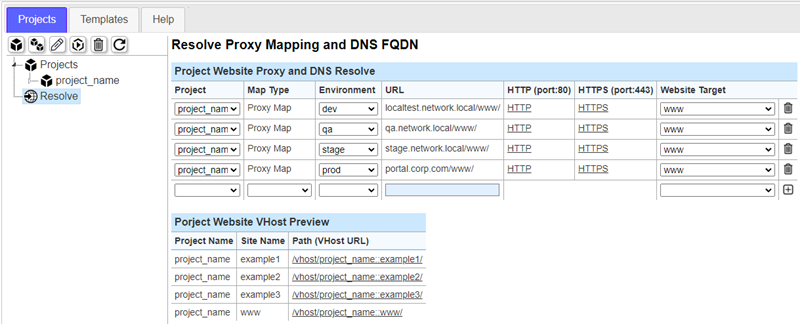
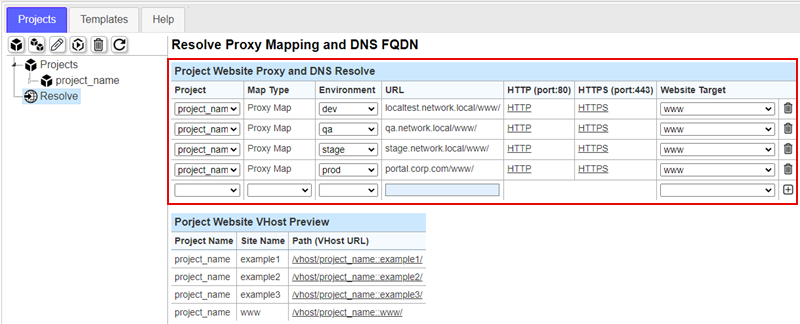
Update help docs

Changed region(s): [[0.2188, 0.6173, 1.0, 0.6481], [0.2188, 0.1543, 1.0, 0.1852]]

diff --git a/server/localhost/help/documents/6_Proxy_and_DNS_Resolution/6-02_Resolve_to_Environments.html b/server/localhost/help/documents/6_Proxy_and_DNS_Resolution/6-02_Resolve_to_Environments.html
@@ -1,0 +1,98 @@
+<h1>Resolve to Environments</h1>
+<p>
+    It's important to understand multiple environments and DNS resolution to server IP, Proxy/Load Balancers, or local Hosts file when you start working with mapping. Reference to '<b>Getting Started</b>' and '<b>Environments</b>', that is one hypothetical layout for different environments (below). It doesn't mean you will have your environments matching this layout. It could be much more simple or leverage Kubernetes instead of traditional VM servers with external load balancers, etc. For sake of simplicity, a lot of these examples will use traditional environments to help describe mapping the system software can support.
+</p>
+<br />
+<img src="/help/images/1_environments.png" />	
+<br /><br />
+<h3>Simple Environment</h3>
+<p>
+    <red>Before getting into this example, from a security perspective, it will most likely not look like this.</red> This is just a functional example. Your environment will most likely have a DMZ or multiple, API gateway, potentially a local code repo, VPNs or users may not work on code from home even (or use virtual desktop for remote access). Also, separate database services from web layer, etc.
+    <br /><br />
+	Let's take for example you have a local workstation with a running version of this webserver and Managment UI enabled. You are working remotely and there is also a Dev, QA, Stage and Prod server in your company server network. Your workstation might also be configured as a Dev server which might feel like it will cause a conflict in the configurations. The following configuration would be a way to support your work and to be able to move it to your company environment as your development proceeds. The following table would define the location, environment, domain name and name service.
+</p>
+
+<div class="grid4">
+    <div class="grid1_sub_head">Location</div>
+    <div class="grid1_sub_head">Environment</div>
+    <div class="grid1_sub_head">Domain Name</div>
+    <div class="grid1_sub_head">Service (resolve to IP)</div>
+    <div class="grid1_col">Company</div>
+    <div class="grid1_col">Prod</div>
+    <div class="grid1_col">www.domain.com</div>
+    <div class="grid1_col">Internal and External DNS</div>
+    <div class="grid1_col">Company</div>
+    <div class="grid1_col">Stage</div>
+    <div class="grid1_col">stage.network.local</div>
+    <div class="grid1_col">Internal DNS</div>
+    <div class="grid1_col">Company</div>
+    <div class="grid1_col">QA</div>
+    <div class="grid1_col">qa.network.local</div>
+    <div class="grid1_col">Internal DNS</div>
+    <div class="grid1_col">Company</div>
+    <div class="grid1_col">Dev</div>
+    <div class="grid1_col">dev.network.local</div>
+    <div class="grid1_col">Internal DNS</div>
+    <div class="grid1_col">Remote</div>
+    <div class="grid1_col">Dev</div>
+    <div class="grid1_col">dev.network.local</div>
+    <div class="grid1_col">Local HOSTS File</div>
+</div>
+<br /><br />
+<p>
+    Generally speaking, leveraging a GitHub repo and working within you own branch of a project or website, and later can be merged into the development environment in the company. Also, a project or website can be cloned in the system which can allow a manager of a project to focus each project clone to a different repo branch. A cloned project will not include the Proxy or DNS mapping settings of the master project but a can still be viewed with a VHost preview (or create Proxy Mapping to resolve a subfolder of a domain name to the clone). At some point all the changes can be merged into the main branch and pulled into the master project. 
+    <br /><br />
+    A local HOSTS file can allow you to similate the company internal DNS for use with '<blue>Proxy Map</blue>' or '<blue>DNS FQDN</blue>' when working remotely. If your workstation is placed on the company network, you would need to remove the HOSTS file entry to resolve to the internal DNS server.
+    <br /><br />
+    Reference to diagram below, you are working remote with a local similated environment and push your updates to GitHub. Those updates are pulled into the comapny development server. The project Proxy or DNS configuration section will work at either location (remote or company). Alternatively, you can ignore the project configuration file but have a local project setup in a silimar configuration and only pull or push the contents. That way your can use differnt DNS names to resolve and not impact the company website configurations. The caveat with this is not matching all the other configuration settings that go with the project like website settings. 
+</p>
+<br />
+<img src="/help/images/6_resolve_simple_example.png" />	
+<br /><br />
+<h3>Resolve Configuration</h3>
+<p>
+    The local workstation should be a configured as a Dev environment. The project should be in the '<blue>web_source</blue>' folder. Your HOSTS file or your local DNS service, if you have one, should resole a DNS name '<blue>dev.network.local</blue>' to your workstation IP.
+    <br /><br />
+    Without any mapping in place for the project website and trying to connect to '<blue>dev.network.local</blue>', you will see a system default 404 page. An exact copy of the project will have all those settings usually.
+</p>
+<br />
+<img src="/help/images/6_resolve_no_mapping.png" />	
+<br /><br />
+<img src="/help/images/6_resolve_no_mapping_404.png" />	
+<br /><br />
+<p>
+    The server settings should be configured for '<hl>dev</hl>' as shown in the '<blue>Admin</blue>' tab and '<blue>Server Settings</blue>' panel. If not, see the '<b>Getting Started</b>' and '<b>Server Settings</b>' page on how to set that.
+</p>
+<br />
+<img src="/help/images/6_resolve_server_env.png" />	
+<br /><br />
+<p>
+    The resolve panel can be configured with a '<blue>Proxy Map</blue>' if planning to map multiple websites under the domain name + path or simply use '<blue>DNS FQDN</blue>' mapping type. As below, these are all of the configuration settings reference to the table in the simple example above. Only the '<blue>dev</blue>' DNS will map to the project and website. The server environment variable would need to be changed to one of the other environment names to register it on the server.
+</p>
+<br />
+<img src="/help/images/6_resolve_mapping_all.png" />	
+<br /><br />
+<p>
+    Now clicking on the 'HTTP' or 'HTTPS' links beside the domain name will open the website. If it doesn't load you would need to verify the server environment and DNS / HOSTS entry is resolving correctly to the server IP.
+</p>
+<br />
+<img src="/help/images/6_resolve_mapping_webpage.png" />	
+<br /><br />
+<p>
+    The '<blue>Admin</blue>' tab and '<blue>Server Mapping</blue>' panel has a simulation function that and enables you to see what mapping will look like in different environments. You can also simulate the connection by pasting or entering in the full URL to the URL address textbox to make sure it will map properly to the right website source in the correct way (static content or server side execute).
+</p>
+<br />
+<img src="/help/images/6_resolve_server_mapping.png" />	
+<br /><br />
+<p>
+    For other environments like Prod, you will most likely have the Management UI turned off and the server setting configured for '<blue>prod</blue>'. The mapping would look as follows. With the Management UI disabled it will not register the IP addresses, localhost or other hostnames that would normally be used for the Management UI and will only register the Prod DNS name resolution configured for the website. When the project folder is moved from one environment to another, that environment can read the configuration files and map any mapping according to it's environment.
+</p>
+<br />
+<img src="/help/images/6_resolve_server_mapping_prod.png" />	
+<br /><br />
+<br />
+<br />
+<br />
+<br />
+<br />
+<br />

diff --git a/server/localhost/help/documents/6_Proxy_and_DNS_Resolution/6-03_Resolve_Flows.html b/server/localhost/help/documents/6_Proxy_and_DNS_Resolution/6-03_Resolve_Flows.html
@@ -1,0 +1,119 @@
+<h1>Resolve Flows</h1>
+<p>
+    Figuring out beforehand how the URL address will resolve to the correct website is important for the least amount of changes in future, simplification of network device configuration requests, and avoiding issues. The following examples are different configurations how URLs will resolve to the project websites in the system.
+</p>
+<br />
+<h3>Single Domain, Single IP</h3>
+<p>
+    In the most simple configuration you may have a URL resolve to a single server IP address. The example below shows how both mapping types work for '<blue>Proxy Map</blue>' and '<blue>DNS FQDN</blue>'. When the server receives a URL request and starts the matching process, Proxy mapping will get checked first before DNS FQDN mapping types. This also shows '<blue>Sub Mapping</blue>' at the website settings level. For the network admin side of things, they only need is to add a DNS record ('<blue>dev.network.local</blue>') to resolve to IP address of the server. The rest is in the control of the application owners or developers.
+</p>
+<ul>
+    <li>At the top, there is a one to one mapping for domain to website with a '<blue>/subpath/</blue>' mapping to a second website. This works as expected. Entering the domain of '<blue>dev.network.local</blue>' will resolve to '<blue>project1</blue>' and website '<blue>www</blue>' and '<blue>dev.network.local/subpath/</blue>' will resolve to '<blue>project1</blue>' and website '<blue>site2</blue>'<br /><br /></li>
+    <li>Next you add on another project called '<blue>project2</blue>' and a website called '<blue>blogs</blue>' and setup a '<blue>Proxy Map</blue>' with a domain + path to resolve to it. This will also work as expected. Proxy mapping will be checked first and then the DNS FQDN mappings. Entering the URL of '<blue>dev.network.local/blogs</blue>' will resolve to '<blue>project2</blue>' and website '<blue>blogs</blue>'<br /><br /></li>
+    <li>At the bottom, someone adds '<blue>/blogs/</blue>' using '<blue>Sub Mapping</blue>' in '<blue>project1</blue>' website '<blue>www</blue>'. This does not work because the URL path will be '<blue>dev.network.local/blogs/</blue>' which is the same as the '<blue>Proxy Map</blue>' configuration to '<blue>project2</blue>' website '<blue>blogs</blue>'. Since '<blue>Proxy Map</blue>' rules are checked first, the '<blue>blogs</blue>' website under project '<blue>project2</blue>' will win the match.</li>
+</ul>
+<p>
+    At this point, a problem is identified. The application team can decide what to do to resolve without having to involve a network administrator. The team can decide what path name to use for '<blue>project1</blue>' blogs website or what to do with '<blue>project2</blue>'.
+</p>
+<br />
+<img src="/help/images/6_resolve_diagram_simple_1.png" />	
+<br /><br />
+<img src="/help/images/6_resolve_diagram_simple_2.png" />	
+<br /><br />
+<img src="/help/images/6_resolve_diagram_simple_3.png" />	
+<br /><br />
+<h3>Single Domain, Load Balancer</h3>
+<p>
+    Let's take an example of having a load balancer in front of multiple web services. The user would connect to a domain of '<blue>portal.network.local</blue>' for various web applications. Those web applications reside across many web servers. In summary, these URLs map to project and website in the table (logically).
+</p>
+<div class="grid4">
+    <div class="grid1_sub_head">URL + Path</div>
+    <div class="grid1_sub_head">Mapping Type</div>
+    <div class="grid1_sub_head">Project</div>
+    <div class="grid1_sub_head">Website</div>
+    <div class="grid1_col">portal.network.local/</div>
+    <div class="grid1_col">DNS FQDN</div>
+    <div class="grid1_col">project6</div>
+    <div class="grid1_col">www</div>
+    <div class="grid1_col">portal.network.local/app1/</div>
+    <div class="grid1_col">Proxy Map</div>
+    <div class="grid1_col">project3</div>
+    <div class="grid1_col">www</div>
+    <div class="grid1_col">portal.network.local/app1/subpath/</div>
+    <div class="grid1_col">Sub Mapping</div>
+    <div class="grid1_col">project3</div>
+    <div class="grid1_col">site2</div>
+    <div class="grid1_col">portal.network.local/app2/</div>
+    <div class="grid1_col">Proxy Map</div>
+    <div class="grid1_col">project4</div>
+    <div class="grid1_col">application</div>
+    <div class="grid1_col">portal.network.local/app3/</div>
+    <div class="grid1_col">Proxy Map</div>
+    <div class="grid1_col">project5</div>
+    <div class="grid1_col">www</div>
+</div>
+<br /><br />
+<p>
+    The URLs above are relate to the digram below. A user connects to the portal URL from a web browser and it resolves to the load balancer VIP (virtual IP). The load balance has ACLs (access control list) are configured so that certain URL, whether it is domain only or domain + path, are matched to a backend server pool. In the digram those pool names are '<blue>be_pool_1</blue>', '<blue>be_pool_2</blue>', and '<blue>be_pool_3</blue>' which resolve to one or more server IPs. Each of those server IPs are it's own server or container that have access to the same project files in the '<blue>web_config</blue>' folder and have mapped the project and websites according to the configuration files it's loaded.
+    <br /><br />
+    When the web requests forward on from the load balancer the URL domain or domain + path are sent to the web servers. The web servers resolve mapping will be configured the same as the load balancer configuration so that what is sent on from the load balancer will be mapped directly to the project and website.
+</p>
+<br />
+<img src="/help/images/6_resolve_diagram_complex_1.png" />	
+<br /><br />
+<p>
+    <b>Example HAproxy configuration</b>
+    <br /><br />
+    With the diagram above, a sample HAproxy load balancer configuration might look as follows.
+</p>
+<pre>
+# Virtual Host Frontend
+frontend fe_web_http
+    bind 192.168.1.220:80
+
+    # Redirect to SSL
+    http-request redirect scheme https unless { ssl_fc }
+
+    # Catch all deny
+    default_backend be_deny_all
+
+frontend fe_web_https
+    bind 192.168.1.220:443 ssl crt /etc/haproxy/ssl.pem
+
+    # Proxy Map from NLB
+    use_backend      be_vhost_portal_1    if { hdr(host) -i -m sub portal.network.local } { path_beg /app1/ }
+    use_backend      be_vhost_portal_1    if { hdr(host) -i -m sub portal.network.local } { path_beg /app2/ }
+    use_backend      be_vhost_portal_2    if { hdr(host) -i -m sub portal.network.local } { path_beg /app3/ }
+    use_backend      be_vhost_portal_3    if { hdr(host) -i -m sub portal.network.local }
+
+    # Catch all deny
+    default_backend be_deny_all
+
+# Default backend - drop all unmatched
+backend be_deny_all
+    #http-request silent-drop
+    http-request deny
+    
+backend be_portal_1
+    option forwardfor
+    server vhost1 192.168.1.52:443 ssl alpn h2,http/1.1 check
+    server vhost2 192.168.1.53:443 ssl alpn h2,http/1.1 check
+    server vhost3 192.168.1.54:443 ssl alpn h2,http/1.1 check
+    
+backend be_portal_2
+    option forwardfor
+    server vhost1 192.168.1.55:443 ssl alpn h2,http/1.1 check
+    server vhost2 192.168.1.56:443 ssl alpn h2,http/1.1 check
+    server vhost3 192.168.1.57:443 ssl alpn h2,http/1.1 check
+
+backend be_portal_3
+    option forwardfor
+    server vhost1 192.168.1.58:443 ssl alpn h2,http/1.1 check
+</pre>
+
+<br />
+<br />
+<br />
+<br />
+<br />
+<br />

diff --git a/server/localhost/help/documents/6_Proxy_and_DNS_Resolution/6-01_Overview.html b/server/localhost/help/documents/6_Proxy_and_DNS_Resolution/6-01_Overview.html
@@ -6,7 +6,7 @@
 <br />
 <h3>URL Assignments</h3>
 <p>
-    Before assigning URL addresses to a project and website, the network administrator must first configure a local or external DNS to resolve domain names to an IP address of your web server, load balancer or proxy server VIP (virtual IP). Kubernetes ingress service may also need setting for domain resolution to the service IP. If you are working on a local workstation, you may choose to modify the local hosts file to resolve a domain name to you localhost IP address. This is needed before you can get any URL mapping to work with your project websites.
+    Before assigning URL addresses to a project and website, the network administrator must first configure a local or external DNS to resolve domain names to an IP address of your web server, load balancer or proxy server VIP (virtual IP). Kubernetes ingress service may also need setting for domain resolution to the service IP. If you are working on a local workstation, you may choose to modify the local HOSTS file to resolve a domain name to you localhost IP address. This is needed before you can get any URL mapping to work with your project websites.
     <br /><br />
     The system aims to have projects and it's website configurations decoupled from the server as much as possible so that the projects are portable and easily moved from one environment to another. That means that there are no '<blue>Proxy Map</blue>' or '<blue>DNS FQDN</blue>' mapping at the server configuration level at all. Any URL assignments are configured in the project configuration files which are centrally managed in the Management UI. A challenge with this is keeping track of the URL assignments if you have multiple environments with Management UIs enabled but each environment cannot see all the projects, or users are configured with limited access to projects and cannot see all the mappings. It would be recommended to have a single repository with all projects so an environment with a Managment UI enbled can see all projects and URL assignments for all environments.
     <br /><br />
@@ -17,15 +17,18 @@
 <br />
 <h3>Mapping Types</h3>
 <p>
-    <b>Proxy Map</b> types are a format of '<blue>www.domain.com/path</blue>' where URL of domain + path maps to a project website.<br />
-    <b>DNS FQDN</b> types are a format of '<blue>www.domain.com</blue>' where URL of domain name only maps to a project website.<br />
-    <br />
+    <b>Proxy Map</b> types are a format of '<blue>www.domain.com/path</blue>' where URL of domain + path maps to a project website. This does not mean the system does a proxy passthrough to the website. This is used for upstream proxy mapping where a network administrator has defined a domain + path to resolve to a server IP or load balancer virtual IP (VIP). You can map the actual URL / URI path in full to the project website as a user would see connecting to the root path of your website.
+    <br /><br />
+    This is also ideal for uses where the a single domain resolves to your web services but you want to use the system to map a URI path to different project websites. In a singular setup where you have a domain resolving to a single server IP you can leverage the proxy map function to define a domain + path to resolve to different project websites without having any upstream proxy services in place. If those websites are all in the same project your should look at resolving a domain or proxy path to a primary website of the project and then use sub mapping so that you don't have to configure as many URLs, keeping it a little more contained to the project website settings.
+    <br /><br />
+    <b>DNS FQDN</b> types are a format of '<blue>www.domain.com</blue>' where URL of domain name only maps to a project website. This is meant as a one to one relation for mapping a domain to a project and website. It is not meant for mapping to multiple webites in different projects. You can use the sub mapping function from the mapped website to other websites in your project.
+    <br /><br />
     '<blue>Proxy Map</blue>' types will match first before '<blue>DNS FQDN</blue>'. It is possible to create a '<blue>DNS FQDN</blue>' map to a domain name that is also used for '<blue>Proxy Map</blue>' with a folder path. That would allow for the FQDN to map to a primary website and proxy mapping to resolve a folder to another project website.
 </p>
 <br />
 <h3>Resolve Panel</h3>
 <p>
-    The '<blue>Resolve</blue>' panel has two table views showing the mapping. The top table is only for '<blue>Proxy Map</blue>' and '<blue>DNS FQDN</blue>' mapping settings. The second table is for listing VHost preview links for all projects and websites as a quick reference. The second view is not used for managing VHosts, they are generated automatically when a project and websites are created on a server with the Management UI enabled. It's there for ability to view the websites and also an index of what currently exists in the web source folder.
+    The '<blue>Resolve</blue>' panel has two table views showing the mapping. The top table is only for '<blue>Proxy Map</blue>' and '<blue>DNS FQDN</blue>' mapping settings. The second table is for listing VHost preview links for all projects and websites as a quick reference. The second table is not used for managing VHosts, they are generated automatically when a project and websites are created on a server with the Management UI enabled. It's there for ability to view the websites and also an index of what currently exists in the web source folder.
     <br /><br />
     This panel allows for configuring new URLs to resolve to project, map type, environment, and the target website. For existing mapping, it allows for changing what project the URL belongs to and also to change environment and website target.
 </p>

diff --git a/server/localhost/help/documents/3_Configure_Websites/3-02_General_Settings.html b/server/localhost/help/documents/3_Configure_Websites/3-02_General_Settings.html
@@ -8,7 +8,7 @@
 <p>
 	'<blue>SSL Redirect</blue>' checkbox will make a client browser redirect from HTTP to HTTPS. If using a load balancer in front of a web service to do any sort of SSL offload, where the website is HTTP and load balancer is HTTPS, this setting you may want to turn off as it can potentially cause issues. This may be done for performance reasons. It is usually best to SSL secure the website communcation end to end to make most security departments happier. This would mean the load balancer will handle SSL and and communicate to web service over SSL.
 	<br /><br />
-	'<blue>Default Document</blue>' textbox is typically '<blue>index.html</blue>' for when connecting to the root of the website (like '<blue>https://www.domain.com/</blue>'). If there is no file specified at the end of the address, the server will add the default document. This is the same for any static content sub folder where a filename is not specified, the server will use the default document here. If there are no default documents in a static content sub folder location, it will set a 404 page (either a custom one or system default). The default document doesn't need to be an HTML file. You can choose for it to be a JSON, XML, or other type if creating an API only websute. It can also be setup as an API type file. Any default document with a '<blue>.js</blue>' file extension will automatically be treated as server side execution.
+	'<blue>Default Document</blue>' textbox is typically '<blue>index.html</blue>' for when connecting to the root of the website (like '<blue>https://www.domain.com/</blue>'). If there is no file specified at the end of the address, the server will add the default document. This is the same for any static content sub folder where a filename is not specified, the server will use the default document here. If there are no default documents in a static content sub folder location, it will set a 404 page (either a custom one or system default). The default document doesn't need to be an HTML file. You can choose for it to be a JSON, XML, or other type if creating an API only website. It can also be setup as an API type file. Any default document with a '<blue>.js</blue>' file extension will automatically be treated as server side execution.
 	<br /><br />
 	'<blue>Maintenance Mode (per Environment)</blue>' checkboxes is used to set a website into maintenance mode. These boxes are settings per environment (See '<b>Environments</b>' in '<b>Getting Started</b>' section for more details). If having a setup where all environments connect to the same web source, you can toggle this setting to put different environments into maintenance mode from a management server (like this one). This does not apply to VHost preview (a Website preview) since the preview gives a user an ability to verify the website before taking it out of maintenance mode. The website user, viewing through a Proxy or DNS FQDN mapping, will see a maintenance page when toggled on.
 	<br /><br />

diff --git a/server/class/vhost_server.js b/server/class/vhost_server.js
@@ -150,6 +150,7 @@ class vhost_server {
                 "mgmt_mode": true,
 	            "mgmt_ui": [],
                 "environment":"dev",
+                "environment_name":"",
                 "http_on":true,
                 "http_port":80,
                 "https_on":true,
